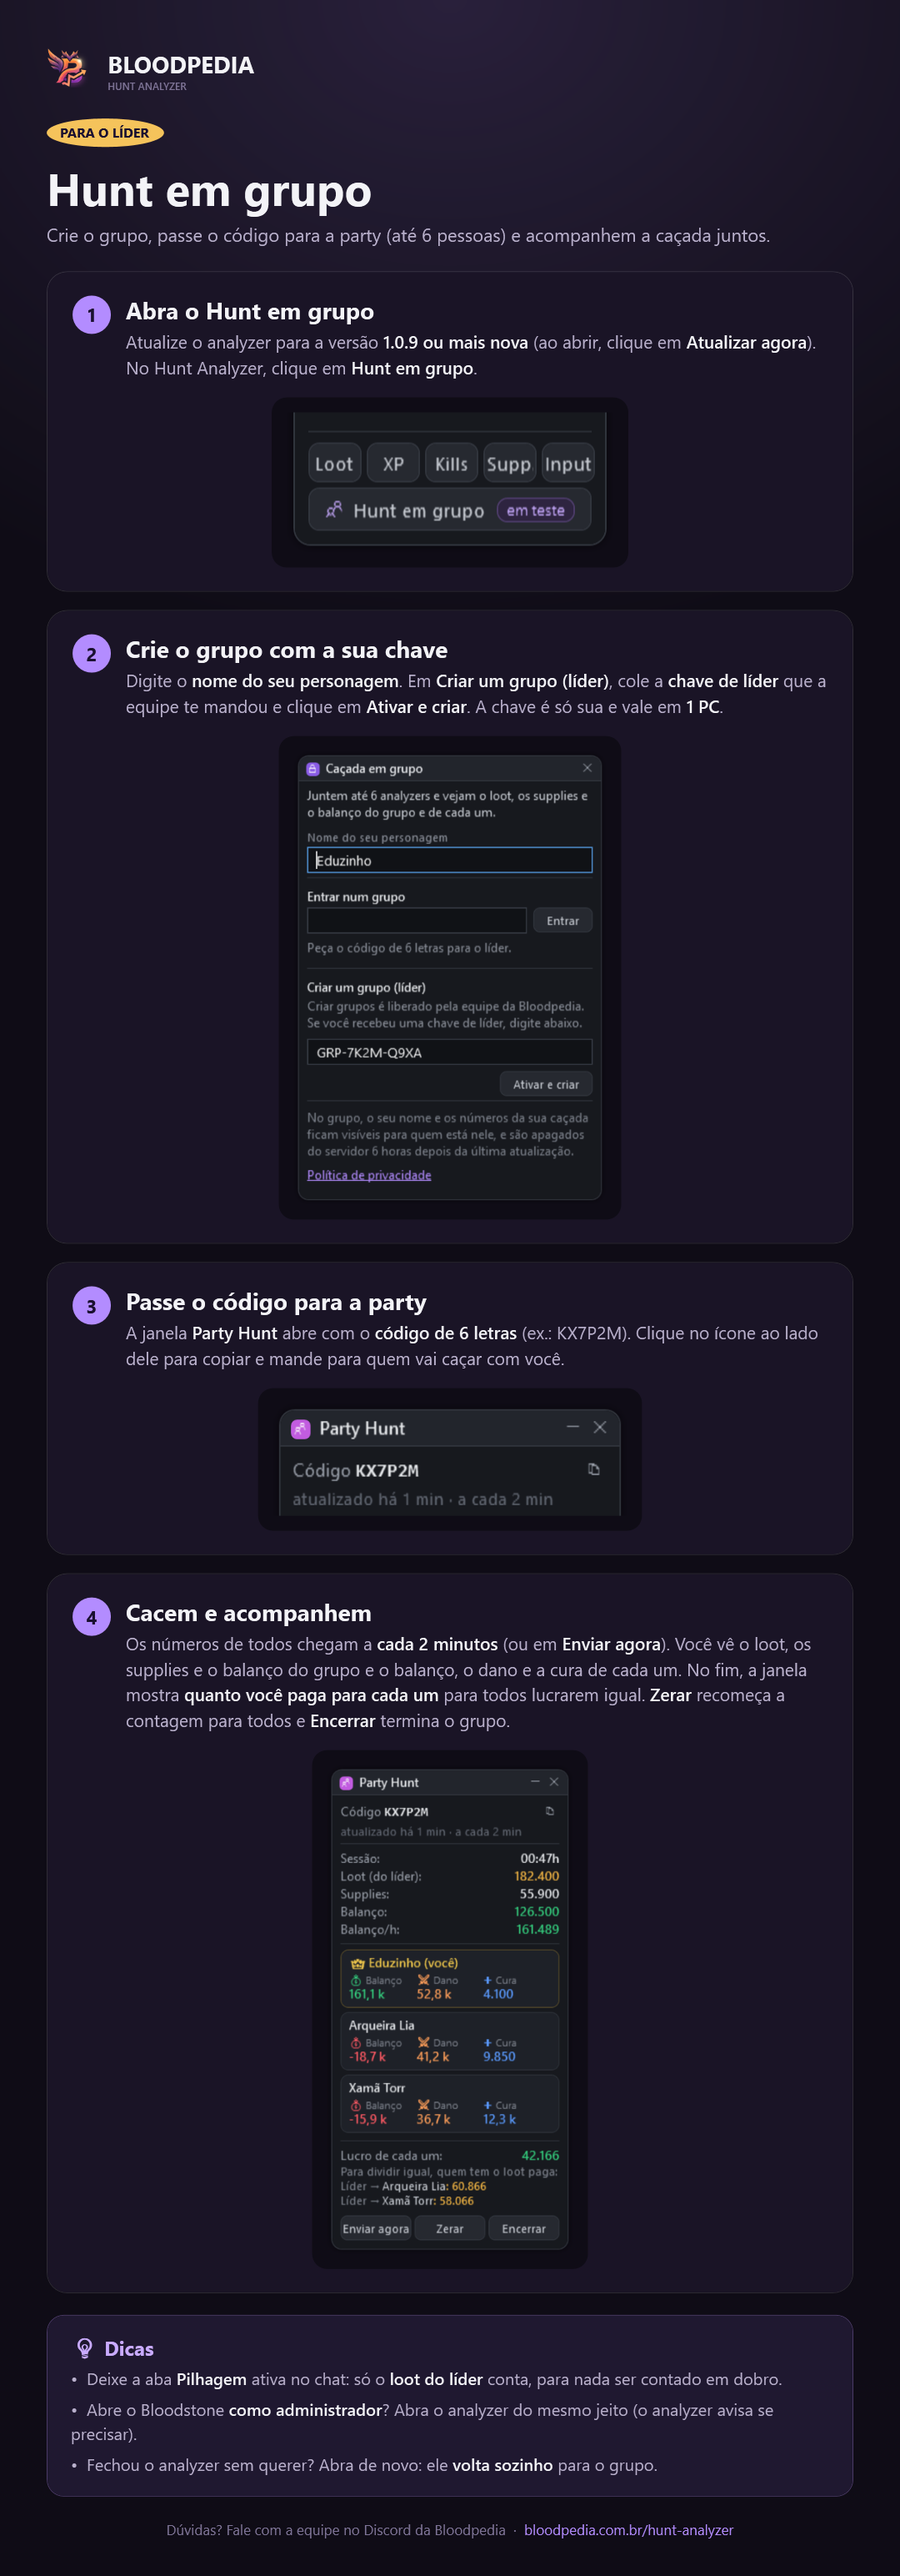
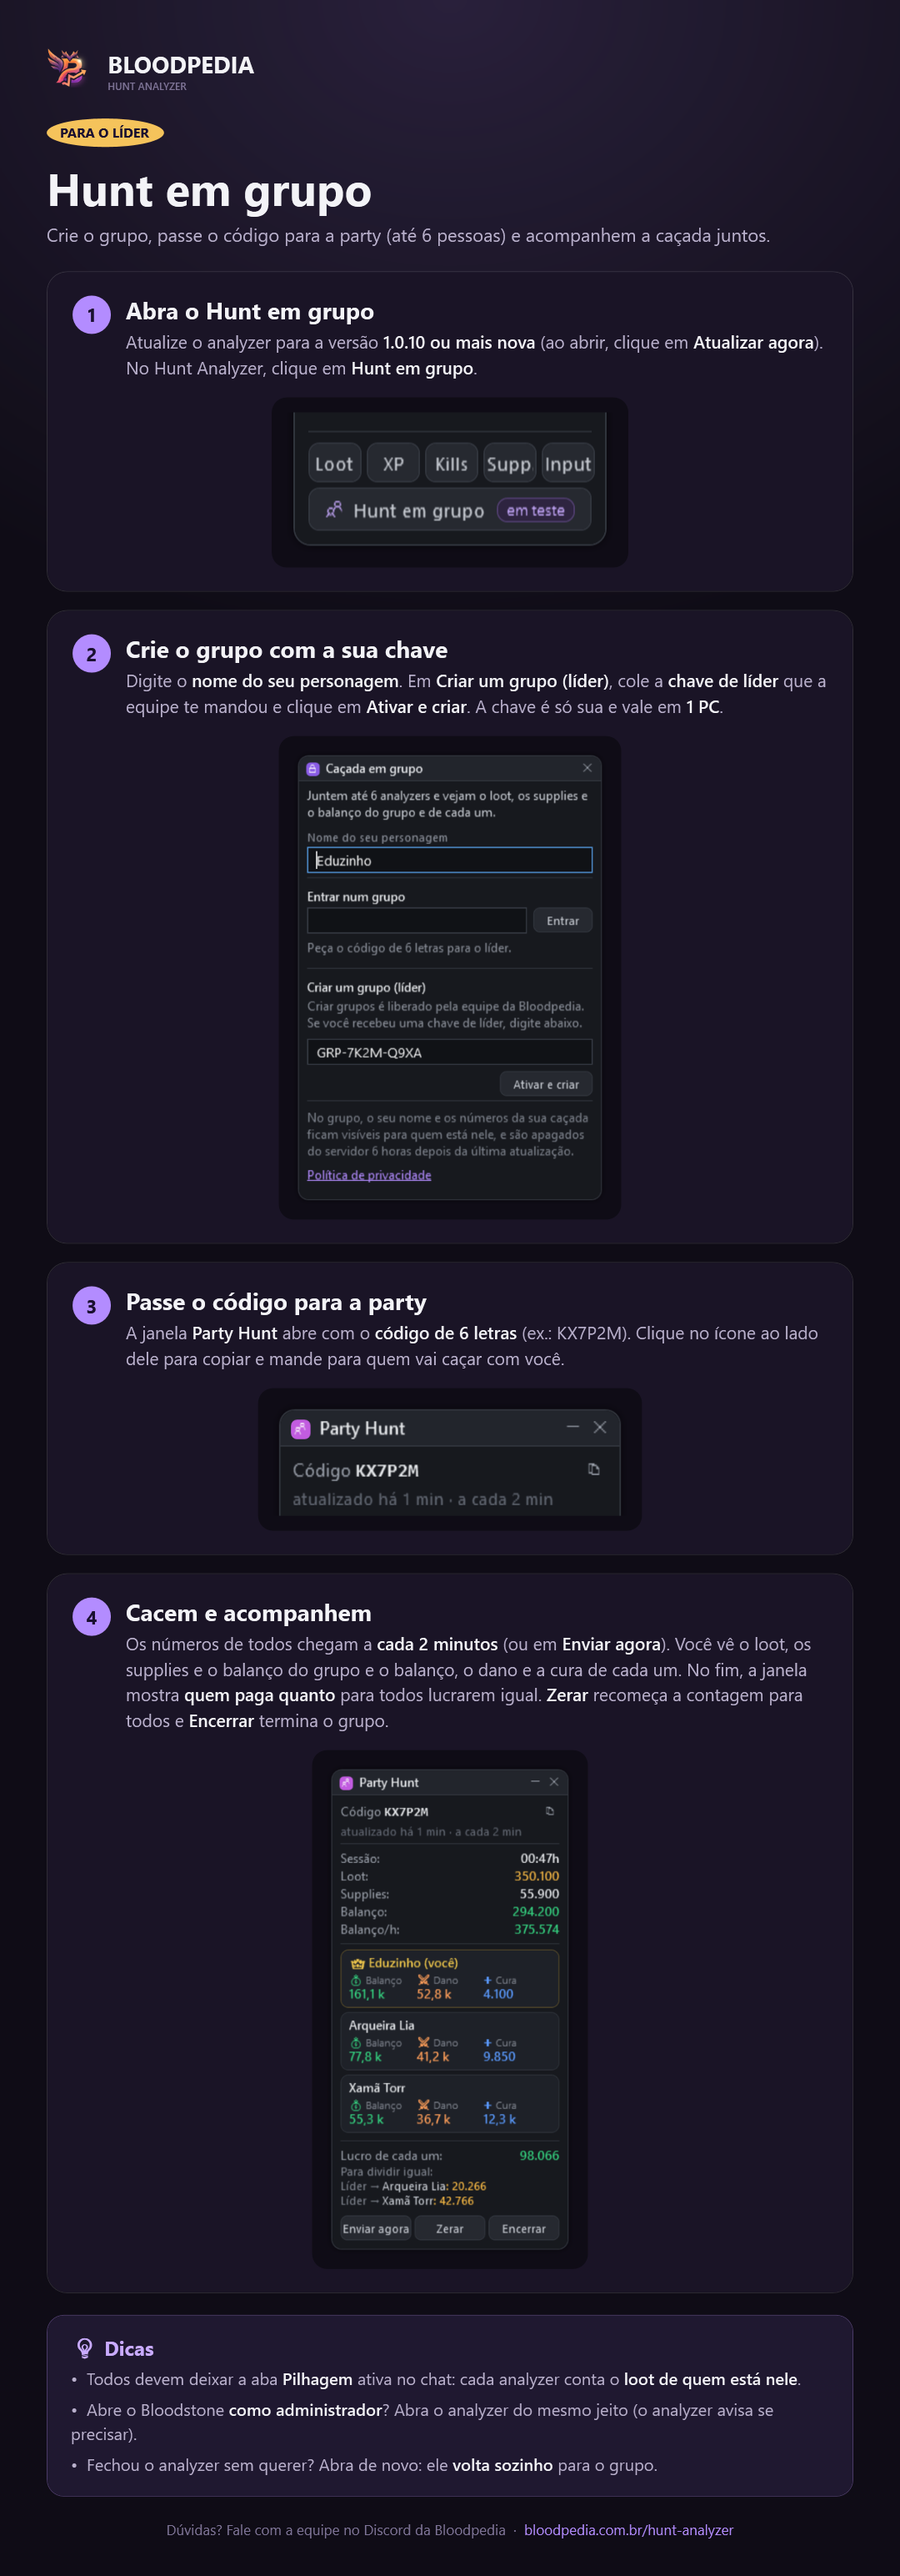
Hunt em grupo: loot de todos soma no grupo; 'por cima do jogo' só com o Bloodstone na frente; versão 1.0.10
- Painel do grupo soma o loot de cada membro e o acerto final diz quem paga quanto
- Com 'Manter por cima do jogo' ligado, as janelas somem ao trocar para outro programa ou minimizar o jogo
- Tutoriais atualizados

diff --git a/app/src/Hunt.xaml b/app/src/Hunt.xaml
@@ -10,7 +10,7 @@
       <Button x:Name="BtnTravar" Style="{StaticResource BotaoTitulo}" Content="&#xE785;" Opacity="0.45" ToolTip="Travar: o analyzer fica visível mas os cliques passam para o jogo (Ctrl+Shift+L)"/>
       <Button x:Name="BtnPausar" Style="{StaticResource BotaoTitulo}" Content="{Binding IconePausa}" ToolTip="Pausar / retomar"/>
       <Button x:Name="BtnZerar" Style="{StaticResource BotaoTitulo}" Content="&#xE72C;" ToolTip="Zerar sessão"/>
-      <Button x:Name="BtnFixar" Style="{StaticResource BotaoTitulo}" Content="&#xE718;" ToolTip="Manter por cima do jogo"/>
+      <Button x:Name="BtnFixar" Style="{StaticResource BotaoTitulo}" Content="&#xE718;" ToolTip="Manter por cima do jogo (só aparece com o Bloodstone na frente)"/>
     </StackPanel>
   </Grid>
   <Grid>

diff --git a/app/src/Tutorial.cs b/app/src/Tutorial.cs
@@ -43,8 +43,8 @@ namespace BloodstoneHunt
             long agora = 1800000000000, criado = agora - 47 * 60000;
             var json = "{\"codigo\":\"KX7P2M\",\"criado\":" + criado + ",\"agora\":" + agora + ",\"lider\":\"aaaaaaaa\",\"epoca\":0,\"membros\":[" +
                 "{\"id\":\"aaaaaaaa\",\"nome\":\"Eduzinho\",\"lider\":true,\"atualizado\":" + (agora - 60000) + ",\"dados\":{\"loot\":182400,\"supplies\":21300,\"dano\":52800,\"cura\":4100}}," +
-                "{\"id\":\"bbbbbbbb\",\"nome\":\"Arqueira Lia\",\"lider\":false,\"atualizado\":" + (agora - 60000) + ",\"dados\":{\"loot\":0,\"supplies\":18700,\"dano\":41200,\"cura\":9850}}," +
-                "{\"id\":\"cccccccc\",\"nome\":\"Xamã Torr\",\"lider\":false,\"atualizado\":" + (agora - 120000) + ",\"dados\":{\"loot\":0,\"supplies\":15900,\"dano\":36700,\"cura\":12300}}]}";
+                "{\"id\":\"bbbbbbbb\",\"nome\":\"Arqueira Lia\",\"lider\":false,\"atualizado\":" + (agora - 60000) + ",\"dados\":{\"loot\":96500,\"supplies\":18700,\"dano\":41200,\"cura\":9850}}," +
+                "{\"id\":\"cccccccc\",\"nome\":\"Xamã Torr\",\"lider\":false,\"atualizado\":" + (agora - 120000) + ",\"dados\":{\"loot\":71200,\"supplies\":15900,\"dano\":36700,\"cura\":12300}}]}";
             grupoAtual = souLider ? new[] { "KX7P2M", "aaaaaaaa", "x", "Eduzinho" } : new[] { "KX7P2M", "bbbbbbbb", "x", "Arqueira Lia" };
             grupoEstado = new JavaScriptSerializer().Deserialize<Dictionary<string, object>>(json);
             grupoUltimoEnvio = DateTime.Now.AddMinutes(-1);
@@ -158,23 +158,23 @@ namespace BloodstoneHunt
             GrupoExemplo(false); DesenharGrupo(); var partyMembro = Print2x(janelaGrupo.W);
 
             var lider = MontarTutorial("PARA O LÍDER", "Hunt em grupo", "Crie o grupo, passe o código para a party (até 6 pessoas) e acompanhem a caçada juntos.", "#F5C35B", new List<PassoTut> {
-                new PassoTut { Titulo = "Abra o Hunt em grupo", Texto = "Atualize o analyzer para a versão **1.0.9 ou mais nova** (ao abrir, clique em **Atualizar agora**). No Hunt Analyzer, clique em **Hunt em grupo**.", Imagem = botao, Escala = 2.0 },
+                new PassoTut { Titulo = "Abra o Hunt em grupo", Texto = "Atualize o analyzer para a versão **1.0.10 ou mais nova** (ao abrir, clique em **Atualizar agora**). No Hunt Analyzer, clique em **Hunt em grupo**.", Imagem = botao, Escala = 2.0 },
                 new PassoTut { Titulo = "Crie o grupo com a sua chave", Texto = "Digite o **nome do seu personagem**. Em **Criar um grupo (líder)**, cole a **chave de líder** que a equipe te mandou e clique em **Ativar e criar**. A chave é só sua e vale em **1 PC**.", Imagem = dlgLider, Escala = 1.25 },
                 new PassoTut { Titulo = "Passe o código para a party", Texto = "A janela **Party Hunt** abre com o **código de 6 letras** (ex.: KX7P2M). Clique no ícone ao lado dele para copiar e mande para quem vai caçar com você.", Imagem = codigo, Escala = 1.8 },
-                new PassoTut { Titulo = "Cacem e acompanhem", Texto = "Os números de todos chegam a **cada 2 minutos** (ou em **Enviar agora**). Você vê o loot, os supplies e o balanço do grupo e o balanço, o dano e a cura de cada um. No fim, a janela mostra **quanto você paga para cada um** para todos lucrarem igual. **Zerar** recomeça a contagem para todos e **Encerrar** termina o grupo.", Imagem = partyLider, Escala = 1.25 },
+                new PassoTut { Titulo = "Cacem e acompanhem", Texto = "Os números de todos chegam a **cada 2 minutos** (ou em **Enviar agora**). Você vê o loot, os supplies e o balanço do grupo e o balanço, o dano e a cura de cada um. No fim, a janela mostra **quem paga quanto** para todos lucrarem igual. **Zerar** recomeça a contagem para todos e **Encerrar** termina o grupo.", Imagem = partyLider, Escala = 1.25 },
             }, new[] {
-                "Deixe a aba **Pilhagem** ativa no chat: só o **loot do líder** conta, para nada ser contado em dobro.",
+                "Todos devem deixar a aba **Pilhagem** ativa no chat: cada analyzer conta o **loot de quem está nele**.",
                 "Abre o Bloodstone **como administrador**? Abra o analyzer do mesmo jeito (o analyzer avisa se precisar).",
                 "Fechou o analyzer sem querer? Abra de novo: ele **volta sozinho** para o grupo.",
             });
             SalvarTutorial(lider, Path.Combine(pasta, "tutorial-lider.png"));
 
             var membro = MontarTutorial("PARA QUEM VAI PARTICIPAR", "Hunt em grupo", "Entre no grupo do líder com o código e acompanhe a caçada da party. Não precisa de chave.", "#B38CFF", new List<PassoTut> {
-                new PassoTut { Titulo = "Abra o Hunt em grupo", Texto = "Atualize o analyzer para a versão **1.0.9 ou mais nova** (ao abrir, clique em **Atualizar agora**). No Hunt Analyzer, clique em **Hunt em grupo**.", Imagem = botao, Escala = 2.0 },
+                new PassoTut { Titulo = "Abra o Hunt em grupo", Texto = "Atualize o analyzer para a versão **1.0.10 ou mais nova** (ao abrir, clique em **Atualizar agora**). No Hunt Analyzer, clique em **Hunt em grupo**.", Imagem = botao, Escala = 2.0 },
                 new PassoTut { Titulo = "Entre com o código do líder", Texto = "Digite o **nome do seu personagem**. Em **Entrar num grupo**, digite o **código de 6 letras** que o líder passou e clique em **Entrar**.", Imagem = dlgMembro, Escala = 1.25 },
-                new PassoTut { Titulo = "Cace normalmente", Texto = "Seus números (supplies, dano e cura) vão para o grupo **a cada 2 minutos**, ou na hora em **Enviar agora**. O seu cartão aparece com **(você)**. No fim, a janela mostra **quanto o líder te paga** para todos lucrarem igual. Para sair, clique em **Sair**.", Imagem = partyMembro, Escala = 1.25 },
+                new PassoTut { Titulo = "Cace normalmente", Texto = "Seus números (loot, supplies, dano e cura) vão para o grupo **a cada 2 minutos**, ou na hora em **Enviar agora**. O seu cartão aparece com **(você)**. No fim, a janela mostra **o acerto com o líder** para todos lucrarem igual. Para sair, clique em **Sair**.", Imagem = partyMembro, Escala = 1.25 },
             }, new[] {
-                "O **loot é contado pelo líder**: por isso o seu balanço aparece negativo até a divisão no fim.",
+                "Deixe a aba **Pilhagem** ativa no chat: é por ela que o analyzer conta o **seu loot**.",
                 "Abre o Bloodstone **como administrador**? Abra o analyzer do mesmo jeito (o analyzer avisa se precisar).",
                 "No grupo vão só o seu **nome** e os números da caçada, apagados 6 h depois. Nada da sua conta ou do seu PC.",
             });

diff --git a/app/src/Grupo.cs b/app/src/Grupo.cs
@@ -2,8 +2,8 @@
 //
 // - Só líderes liberados pela equipe (chave de acesso) criam grupos; qualquer pessoa entra com o código de 6 letras.
 // - Até 6 pessoas. Cada analyzer envia os próprios números a cada 2 minutos (e em "Enviar agora" e ao fechar).
-// - O loot do grupo é o do líder (todos veem as mesmas mensagens de Pilhagem), então nada é contado em dobro;
-//   supplies, dano e cura são de cada um.
+// - Cada analyzer só vê o loot que a própria pessoa pegou, então o loot do grupo é a soma do de todos;
+//   supplies, dano e cura também são de cada um.
 // - Vai para o servidor só o essencial: o nome que a pessoa digitou, loot, supplies, dano e cura (e, para o líder, um
 //   hash do PC feito só para o modo grupo, que limita a chave a 1 PC). Ficam lá por 6 h desde a última atualização.
 using System;
@@ -124,7 +124,7 @@ namespace BloodstoneHunt
             if (EmGrupo) { grupoTimer.Start(); EnviarGrupo(false); }
         }
 
-        /** só o que o painel do grupo usa: loot (o servidor só aproveita o do líder), supplies em gp, dano e cura */
+        /** só o que o painel do grupo usa: loot, supplies em gp, dano e cura */
         Dictionary<string, object> DadosGrupo()
         {
             var agora = NumerosCacada();
@@ -323,11 +323,11 @@ namespace BloodstoneHunt
             long criado = GrupoServidor.Num(g, "criado"), agora = GrupoServidor.Num(g, "agora");
             Func<Dictionary<string, object>, string, long> n = (m, k) => GrupoServidor.Num(GrupoServidor.Obj(m, "dados"), k);
             var lider = membros.FirstOrDefault(m => GrupoServidor.Sim(m, "lider"));
-            long loot = lider != null ? n(lider, "loot") : 0, sup = membros.Sum(m => n(m, "supplies")), bal = loot - sup;
+            long loot = membros.Sum(m => n(m, "loot")), sup = membros.Sum(m => n(m, "supplies")), bal = loot - sup;
             double horas = Math.Max((agora - criado) / 3600000.0, 1.0 / 60);
             var dur = TimeSpan.FromMilliseconds(Math.Max(0, agora - criado));
             c.Children.Add(ParValor("Sessão:", string.Format("{0:00}:{1:00}h", (int)dur.TotalHours, dur.Minutes), "#E9EBEE"));
-            c.Children.Add(ParValor("Loot (do líder):", Inteiro(loot), "#F2B544"));
+            c.Children.Add(ParValor("Loot:", Inteiro(loot), "#F2B544"));
             c.Children.Add(ParValor("Supplies:", Inteiro(sup), "#E9EBEE"));
             c.Children.Add(ParValor("Balanço:", Inteiro(bal), bal >= 0 ? "#35D07F" : "#FF5A64"));
             c.Children.Add(ParValor("Balanço/h:", Inteiro((long)(bal / horas)), bal >= 0 ? "#35D07F" : "#FF5A64"));
@@ -338,7 +338,7 @@ namespace BloodstoneHunt
             {
                 bool eLider = GrupoServidor.Sim(m, "lider"), semDados = GrupoServidor.Obj(m, "dados") == null;
                 long at = GrupoServidor.Num(m, "atualizado"); bool parado = !semDados && agora - at > 5 * 60000;
-                long sm = n(m, "supplies"), bm = (eLider ? loot : 0) - sm;
+                long sm = n(m, "supplies"), lm = n(m, "loot"), bm = lm - sm;
                 // cartão da pessoa: nome em cima e três números com etiqueta (ícone + nome), para ler sem precisar adivinhar
                 var cartao = new Border { CornerRadius = new CornerRadius(7), Background = Cor("#1E2128"), BorderBrush = Cor(eLider ? "#4A4128" : "#2A2E35"), BorderThickness = new Thickness(1),
                     Padding = new Thickness(7, 4, 7, 5), Margin = new Thickness(0, 0, 0, 4), Opacity = semDados || parado ? 0.5 : 1 };
@@ -361,7 +361,7 @@ namespace BloodstoneHunt
                         s.Children.Add(new TextBlock { Text = v, FontSize = 12, FontWeight = FontWeights.SemiBold, Foreground = Cor(cor) });
                         Grid.SetColumn(s, i); l.Children.Add(s);
                     };
-                    col(0, "\U0001F4B0", "Balanço", Num(bm), bm >= 0 ? "#35D07F" : "#FF5A64", "Balanço: " + Inteiro(bm) + " gp\n(loot que está com a pessoa − " + Inteiro(sm) + " gp de supplies gastos)");
+                    col(0, "\U0001F4B0", "Balanço", Num(bm), bm >= 0 ? "#35D07F" : "#FF5A64", "Balanço: " + Inteiro(bm) + " gp\n(" +Inteiro(lm) + " gp de loot − " + Inteiro(sm) + " gp de supplies)");
                     col(1, "⚔", "Dano", Num(n(m, "dano")), "#FF9F5A", "Dano causado: " + Inteiro(n(m, "dano")));
                     col(2, "✚", "Cura", Num(n(m, "cura")), "#5B9BFF", "Vida recuperada: " + Inteiro(n(m, "cura")));
                     bloco.Children.Add(l);
@@ -369,17 +369,17 @@ namespace BloodstoneHunt
                 c.Children.Add(cartao);
             }
 
-            // divisão: todos terminam com o mesmo lucro; o líder (que tem o loot) paga a parte de cada um
+            // divisão: todos terminam com o mesmo lucro; o acerto passa pelo líder (quem ficou com mais paga a diferença)
             var comDados = membros.Where(m => GrupoServidor.Obj(m, "dados") != null).ToList();
             if (comDados.Count > 1 && lider != null)
             {
                 long parte = bal / comDados.Count;
                 c.Children.Add(new Border { Style = (Style)Application.Current.Resources["Separador"], Margin = new Thickness(0, 3, 0, 5) });
                 c.Children.Add(ParValor("Lucro de cada um:", Inteiro(parte), parte >= 0 ? "#35D07F" : "#FF5A64"));
-                c.Children.Add(Linha("Para dividir igual, quem tem o loot paga:", "#7D828C", 10.5));
+                c.Children.Add(Linha("Para dividir igual:", "#7D828C", 10.5));
                 foreach (var m in comDados.Where(x => !GrupoServidor.Sim(x, "lider")))
                 {
-                    long recebe = parte + n(m, "supplies");   // a parte do lucro mais o que gastou em supplies
+                    long recebe = parte - (n(m, "loot") - n(m, "supplies"));   // o que falta (ou sobra) para a pessoa ficar com a parte dela
                     var t = new TextBlock { FontSize = 10.5, TextWrapping = TextWrapping.Wrap, Margin = new Thickness(0, 1, 0, 0) };
                     if (recebe >= 0) { t.Inlines.Add(new System.Windows.Documents.Run("Líder → ") { Foreground = Cor("#7D828C") }); t.Inlines.Add(new System.Windows.Documents.Run(GrupoServidor.Txt(m, "nome")) { Foreground = Cor("#C9CDD4") }); }
                     else { t.Inlines.Add(new System.Windows.Documents.Run(GrupoServidor.Txt(m, "nome")) { Foreground = Cor("#C9CDD4") }); t.Inlines.Add(new System.Windows.Documents.Run(" → líder") { Foreground = Cor("#7D828C") }); }

diff --git a/app/src/Analyzer.cs b/app/src/Analyzer.cs
@@ -695,6 +695,35 @@ namespace BloodstoneHunt
         string statusLeitor = "Procurando o client.exe…", statusCurto = "procurando o jogo"; int nivelStatus;
         StreamWriter log, bruto;
 
+        // "Manter por cima do jogo" preso ao jogo: as janelas só aparecem (e por cima) enquanto o Bloodstone ou o próprio
+        // analyzer está em primeiro plano. Ao trocar para outro programa ou minimizar o jogo, elas somem e não deixam
+        // passar o clique; voltam ao voltar para o jogo. Sem o jogo aberto, ficam normais.
+        [DllImport("user32.dll")] static extern IntPtr GetForegroundWindow();
+        [DllImport("user32.dll")] static extern uint GetWindowThreadProcessId(IntPtr h, out uint pid);
+        bool sobreJogoVisivel = true, sobreJogoTopo = true;
+        void AcompanharJogo()
+        {
+            uint eu = (uint)Process.GetCurrentProcess().Id;
+            var t = new DispatcherTimer { Interval = TimeSpan.FromMilliseconds(250) };
+            t.Tick += (s, e) =>
+            {
+                var m = L != null ? L.M : null; uint jogo = m != null ? (uint)m.Pid : 0;
+                bool ver = true;
+                if (P.PorCima && jogo != 0)
+                {
+                    uint pid; GetWindowThreadProcessId(GetForegroundWindow(), out pid);
+                    ver = pid == jogo || pid == eu;
+                }
+                bool topo = P.PorCima && ver;
+                if (ver == sobreJogoVisivel && topo == sobreJogoTopo) return;
+                sobreJogoVisivel = ver; sobreJogoTopo = topo;
+                var todas = janelas.Values.Select(j => j.W).ToList();
+                if (trava != null && trava.Flutuante != null) todas.Add(trava.Flutuante);
+                foreach (var w in todas) { w.Opacity = ver ? 1 : 0; w.Topmost = topo || (w == (trava != null ? trava.Flutuante : null) && ver); }
+            };
+            t.Start();
+        }
+
         // chave, título, cor do selo, ícone (Segoe MDL2), largura
         static readonly string[][] Definicoes = {
             new[] { "hunt", "Hunt Analyzer", "#E5484D", "", "196" },
@@ -754,6 +783,7 @@ namespace BloodstoneHunt
             hunt.W.Show();
             trava = new Trava(hunt.W, (Button)hunt.Corpo.FindName("BtnTravar"), () => janelas.Values.Select(x => x.W));
             trava.Mudou += () => { var b = (Button)hunt.Corpo.FindName("BtnTravar"); b.Content = trava.Ligada ? "" : ""; b.Opacity = trava.Ligada ? 1 : 0.45; };
+            AcompanharJogo();
             Atualizacao.Verificar(hunt.W, Log, () => { SalvarPosicoes(); P.Salvar(); });
             if (!P.AvisoUso || !P.AvisoAdmin) AvisoInicial(hunt.W);
             Log("administrador: " + (SouAdministrador() ? "sim" : "não"));

diff --git a/app/src/Extras.cs b/app/src/Extras.cs
@@ -23,7 +23,7 @@ namespace BloodstoneHunt
     static class Info
     {
         public const string Nome = "Analyzer Bloodpedia";
-        public const string Versao = "1.0.9";
+        public const string Versao = "1.0.10";
         // repositório público onde ficam as versões (GitHub Releases)
         public const string Repositorio = "dusteron2025-ui/analyzer-bloodpedia";
     }
@@ -41,6 +41,7 @@ namespace BloodstoneHunt
 
         readonly Func<IEnumerable<Window>> janelas; readonly Button botao; readonly Window dono;
         Window flutuante; public bool Ligada { get; private set; }
+        public Window Flutuante { get { return flutuante; } }
         public event Action Mudou;
 
         public Trava(Window dono, Button botao, Func<IEnumerable<Window>> janelas)
